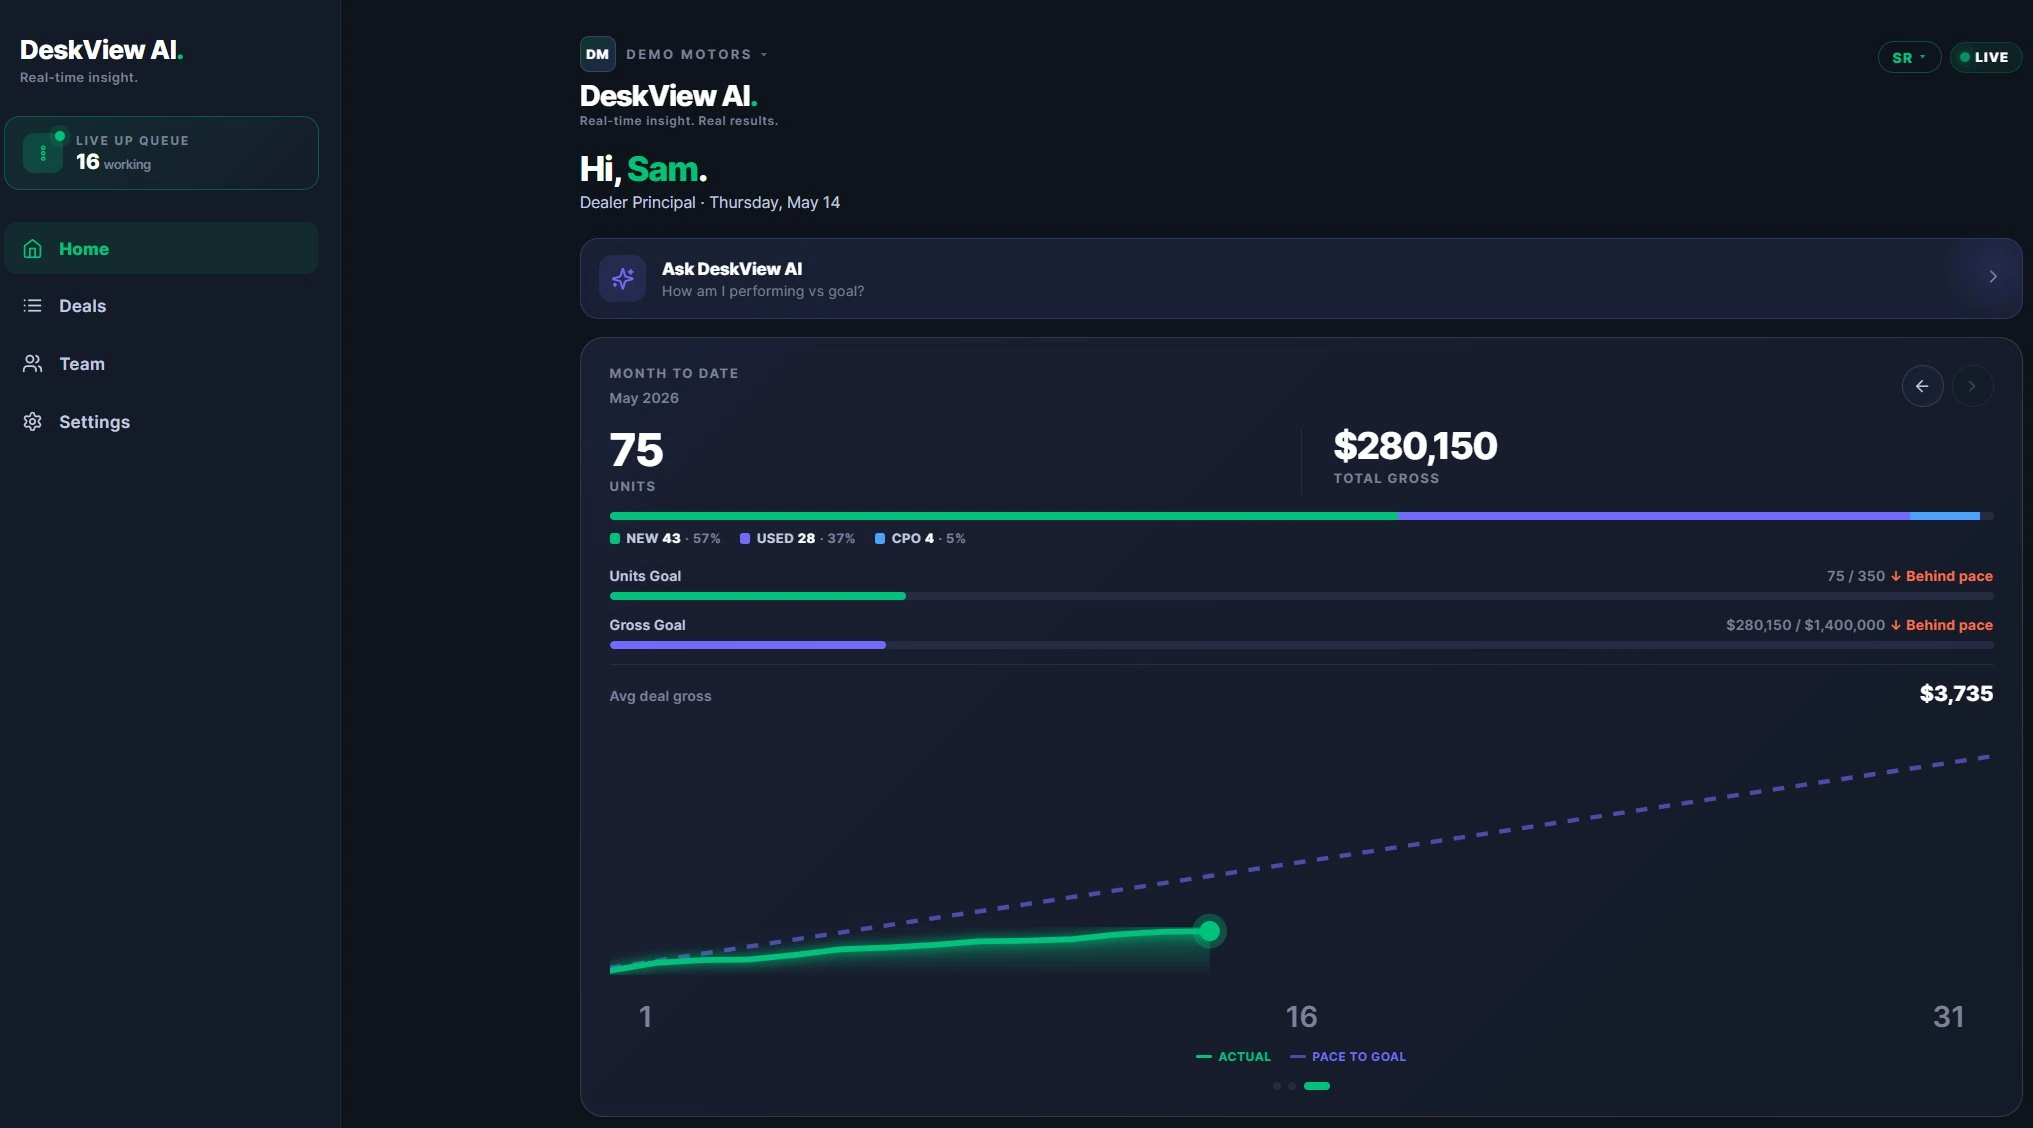
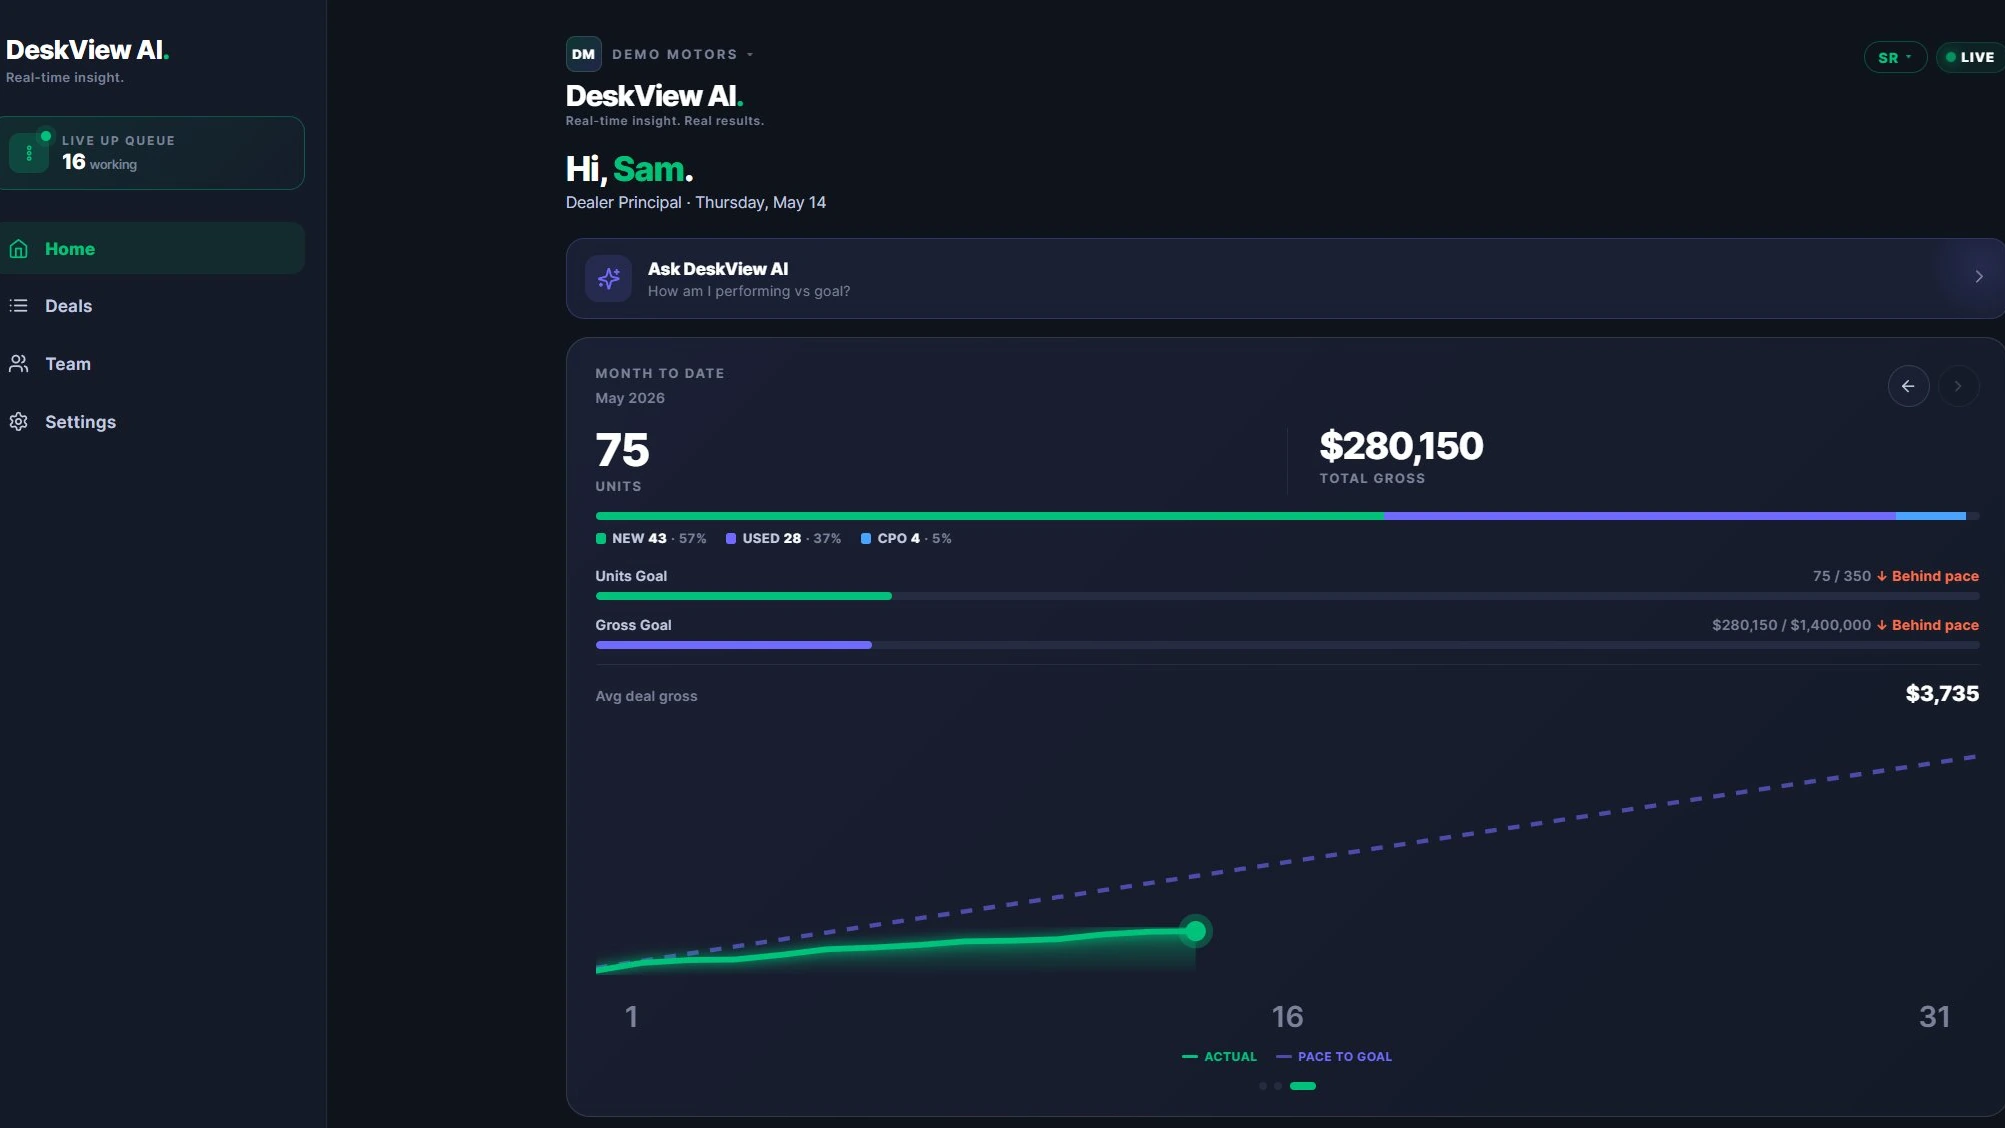
feat: hero carousel with auto-rotation and click navigation

diff --git a/index.html b/index.html
@@ -606,7 +606,7 @@ section { position: relative; z-index: 2; }
   background: linear-gradient(135deg, #1a2033 0%, #0a0d14 100%);
   border: 1px solid var(--line-bright);
   border-radius: 14px;
-  aspect-ratio: 2033 / 1128;
+  aspect-ratio: 16 / 9;
   position: relative;
   overflow: hidden;
   transform: rotateX(8deg);
@@ -660,6 +660,84 @@ section { position: relative; z-index: 2; }
   text-transform: uppercase;
   text-align: center;
   padding: 24px;
+}
+
+/* ============================================================
+   HERO CAROUSEL — multi-slide product showcase
+   ============================================================ */
+.carousel {
+  position: relative;
+  width: 100%;
+  height: 100%;
+  overflow: hidden;
+}
+.carousel-slide {
+  position: absolute;
+  inset: 0;
+  opacity: 0;
+  transition: opacity 0.7s cubic-bezier(0.4, 0, 0.2, 1);
+  pointer-events: none;
+}
+.carousel-slide.active {
+  opacity: 1;
+  pointer-events: auto;
+}
+.carousel-slide img {
+  display: block;
+  width: 100%;
+  height: 100%;
+  object-fit: cover;
+  object-position: top center;
+}
+.carousel-controls {
+  display: flex;
+  align-items: center;
+  justify-content: center;
+  gap: 12px;
+  margin-top: 28px;
+  flex-wrap: wrap;
+}
+.carousel-dot {
+  width: 8px;
+  height: 8px;
+  border-radius: 999px;
+  background: rgba(255, 255, 255, 0.18);
+  border: none;
+  padding: 0;
+  cursor: pointer;
+  transition: all 0.3s cubic-bezier(0.4, 0, 0.2, 1);
+}
+.carousel-dot:hover {
+  background: rgba(255, 255, 255, 0.4);
+  transform: scale(1.2);
+}
+.carousel-dot.active {
+  background: var(--brand);
+  width: 28px;
+  box-shadow: 0 0 14px rgba(0, 194, 122, 0.6);
+}
+.carousel-caption {
+  position: absolute;
+  left: 50%;
+  transform: translateX(-50%);
+  margin-top: 0;
+  font-family: var(--mono);
+  font-size: 11px;
+  letter-spacing: 0.18em;
+  text-transform: uppercase;
+  color: var(--text-faint);
+  opacity: 0;
+  transition: opacity 0.4s ease;
+  white-space: nowrap;
+  pointer-events: none;
+}
+.carousel-caption.active {
+  opacity: 1;
+}
+.carousel-captions-wrap {
+  position: relative;
+  height: 18px;
+  margin-top: 14px;
 }
 
 /* ============================================================
@@ -1438,16 +1516,29 @@ section { position: relative; z-index: 2; }
     <div class="hero-mockup-wrap reveal">
       <div class="mockup-mac">
         <div class="mockup-mac-screen">
-          <img src="/screenshots/dashboard-desktop.webp"
-               alt="DeskView AI Dealer Principal dashboard: month-to-date 75 units and $280,150 gross with real-time MTD trending chart, vehicle mix breakdown (NEW 43, USED 28, CPO 4), units and gross goal progress vs $1.4M annual target, pace tracking, live UP queue (16 working), and built-in Ask DeskView AI assistant"
-               class="screenshot-img"
-               loading="eager"
-               width="2033" height="1128"
-               onerror="this.style.display='none'; this.parentElement.nextElementSibling.style.display='flex';" />
-          <div class="screenshot-placeholder" style="display:none;">
-            DASHBOARD-DESKTOP.PNG · 1440×900<br>UPLOAD TO /SCREENSHOTS/
+          <div class="carousel" id="hero-carousel">
+            <div class="carousel-slide active" data-slide="0">
+              <img src="/screenshots/dashboard-desktop.webp"
+                   alt="DeskView AI Dealer Principal dashboard: month-to-date 75 units and $280,150 gross with real-time MTD trending chart, vehicle mix breakdown (NEW 43, USED 28, CPO 4), units and gross goal progress vs $1.4M annual target, pace tracking, live UP queue (16 working), and built-in Ask DeskView AI assistant"
+                   loading="eager"
+                   width="2005" height="1128" />
+            </div>
+            <div class="carousel-slide" data-slide="1">
+              <img src="/screenshots/manager-dashboard.webp"
+                   alt="DeskView AI Sales Manager daily dashboard: today's pace (1 unit, $3,850 gross), Wednesday recap (5 units, $17.3k), hourly sales chart, AI Daily Briefing with rep-by-rep coaching insights, live UP queue, and one-tap Log Deal button for the floor"
+                   loading="lazy"
+                   width="2208" height="1242" />
+            </div>
           </div>
         </div>
+      </div>
+      <div class="carousel-captions-wrap">
+        <span class="carousel-caption active" data-caption="0">DEALER PRINCIPAL · STORE-WIDE INTELLIGENCE</span>
+        <span class="carousel-caption" data-caption="1">SALES MANAGER · DAILY FLOOR BRIEFING</span>
+      </div>
+      <div class="carousel-controls" role="tablist" aria-label="Product views">
+        <button class="carousel-dot active" data-target="0" role="tab" aria-label="Dealer Principal dashboard" aria-selected="true"></button>
+        <button class="carousel-dot" data-target="1" role="tab" aria-label="Sales Manager dashboard" aria-selected="false"></button>
       </div>
     </div>
   </div>
@@ -1818,6 +1909,73 @@ const observer = new IntersectionObserver((entries) => {
 }, { rootMargin: '0px 0px -8% 0px', threshold: 0.05 });
 
 document.querySelectorAll('.reveal').forEach(el => observer.observe(el));
+
+// ============================================================
+// HERO CAROUSEL — auto-rotate + click-to-navigate
+// ============================================================
+(() => {
+  const carousel = document.getElementById('hero-carousel');
+  if (!carousel) return;
+
+  const slides = [...carousel.querySelectorAll('.carousel-slide')];
+  const dots = [...document.querySelectorAll('.carousel-dot')];
+  const captions = [...document.querySelectorAll('.carousel-caption')];
+  if (slides.length < 2) return;
+
+  let current = 0;
+  let timer = null;
+  const ROTATION_MS = 6000;
+
+  function goTo(index) {
+    const next = ((index % slides.length) + slides.length) % slides.length;
+    if (next === current) return;
+    slides[current].classList.remove('active');
+    dots[current]?.classList.remove('active');
+    dots[current]?.setAttribute('aria-selected', 'false');
+    captions[current]?.classList.remove('active');
+    current = next;
+    slides[current].classList.add('active');
+    dots[current]?.classList.add('active');
+    dots[current]?.setAttribute('aria-selected', 'true');
+    captions[current]?.classList.add('active');
+  }
+
+  function startAuto() {
+    stopAuto();
+    timer = setInterval(() => goTo(current + 1), ROTATION_MS);
+  }
+  function stopAuto() {
+    if (timer) clearInterval(timer);
+    timer = null;
+  }
+
+  dots.forEach((dot, i) => {
+    dot.addEventListener('click', () => {
+      goTo(i);
+      startAuto(); // reset timer on manual nav
+    });
+  });
+
+  // Pause on hover, resume on leave
+  const wrap = carousel.closest('.hero-mockup-wrap');
+  wrap?.addEventListener('mouseenter', stopAuto);
+  wrap?.addEventListener('mouseleave', startAuto);
+
+  // Pause when tab is hidden, resume when visible
+  document.addEventListener('visibilitychange', () => {
+    if (document.hidden) stopAuto();
+    else startAuto();
+  });
+
+  // Keyboard navigation (arrow keys when carousel is focused)
+  carousel.setAttribute('tabindex', '-1');
+  document.addEventListener('keydown', (e) => {
+    if (e.key === 'ArrowLeft') { goTo(current - 1); startAuto(); }
+    if (e.key === 'ArrowRight') { goTo(current + 1); startAuto(); }
+  });
+
+  startAuto();
+})();
 </script>
 
 </body>
